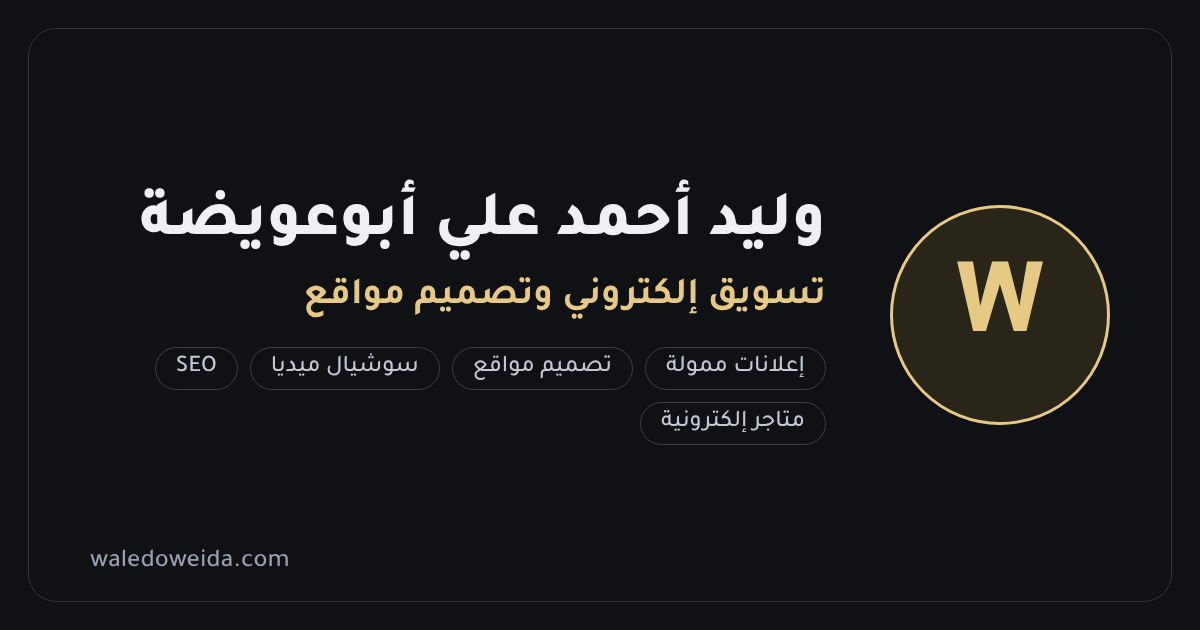
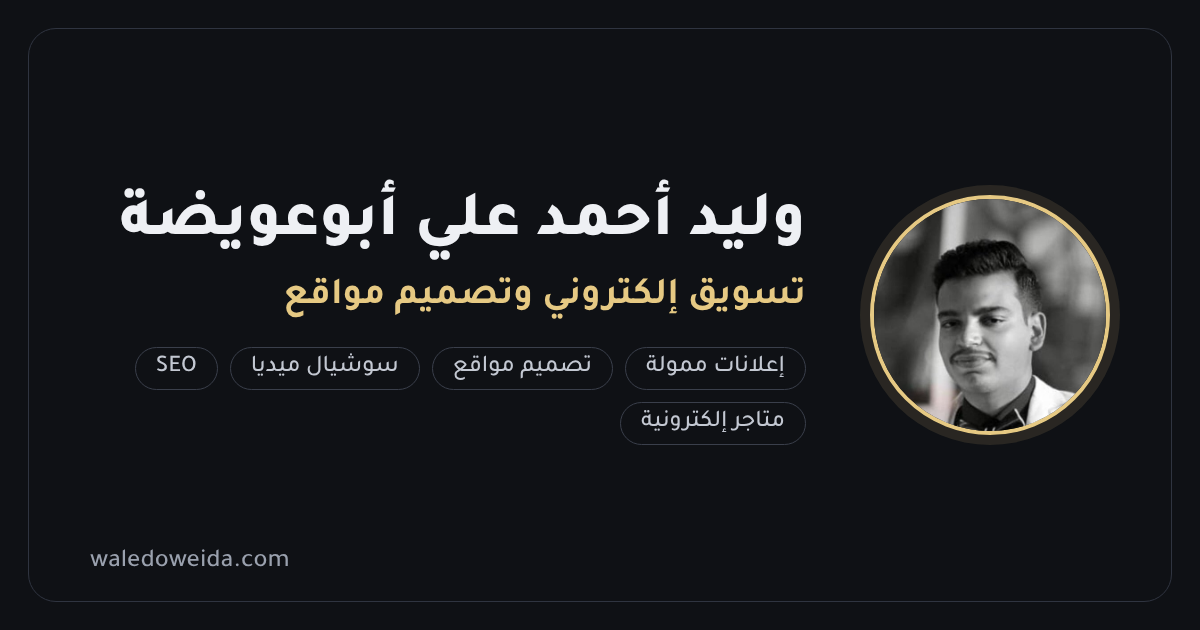
Replace remaining W marks with the profile photo
Footer brand uses the avatar; share image (og.png) shows the photo.
Removes the now-unused .logo style.

Claude-Session: https://claude.ai/code/session_012tSYvgWkHpc3fVaBnQQ9j5

diff --git a/index.html b/index.html
@@ -16,12 +16,12 @@
 <meta property="og:title" content="وليد أحمد علي أبوعويضة | تسويق إلكتروني وتصميم مواقع">
 <meta property="og:description" content="إعلانات ممولة، تصميم مواقع ومتاجر، ظهور في جوجل، وإدارة السوشيال ميديا">
 <meta property="og:url" content="https://waledoweida.com/">
-<meta property="og:image" content="https://waledoweida.com/og.png">
+<meta property="og:image" content="https://waledoweida.com/og.png?v=2">
 <meta property="og:image:width" content="1200">
 <meta property="og:image:height" content="630">
 <meta property="og:locale" content="ar_EG">
 <meta name="twitter:card" content="summary_large_image">
-<meta name="twitter:image" content="https://waledoweida.com/og.png">
+<meta name="twitter:image" content="https://waledoweida.com/og.png?v=2">
 <link rel="preload" as="image" href="profile.jpg">
 <link rel="preconnect" href="https://fonts.googleapis.com">
 <link rel="preconnect" href="https://fonts.gstatic.com" crossorigin>
@@ -89,7 +89,6 @@ header.scrolled{background:rgba(11,13,18,.82);backdrop-filter:blur(14px);-webkit
 header .wrap{display:flex;align-items:center;justify-content:space-between;gap:16px;height:68px}
 .brand{display:flex;align-items:center;gap:10px;color:var(--ink-text);font-weight:600;font-size:1.05rem;white-space:nowrap}
 .avatar{width:40px;height:40px;border-radius:50%;object-fit:cover;border:2px solid var(--gold);flex:none}
-.logo{width:36px;height:36px;border-radius:10px;display:grid;place-items:center;background:linear-gradient(135deg,var(--gold),var(--gold-2));color:#16130c;font-weight:700;font-family:"Readex Pro",sans-serif}
 nav{display:flex;gap:28px;font-size:.95rem;color:var(--ink-muted)}
 nav a{transition:color .2s}
 nav a:hover{color:var(--gold)}
@@ -541,7 +540,7 @@ footer{background:var(--ink);color:var(--ink-muted);border-top:1px solid var(--i
   <div class="wrap">
     <div class="f-grid">
       <div>
-        <a href="#" class="brand"><span class="logo">W</span>وليد أبوعويضة</a>
+        <a href="#" class="brand"><img class="avatar" src="avatar.jpg" alt="" width="40" height="40" loading="lazy">وليد أبوعويضة</a>
         <p>تسويق إلكتروني وتصميم مواقع: إعلانات ممولة، مواقع ومتاجر، SEO، وسوشيال ميديا.</p>
       </div>
       <div>
